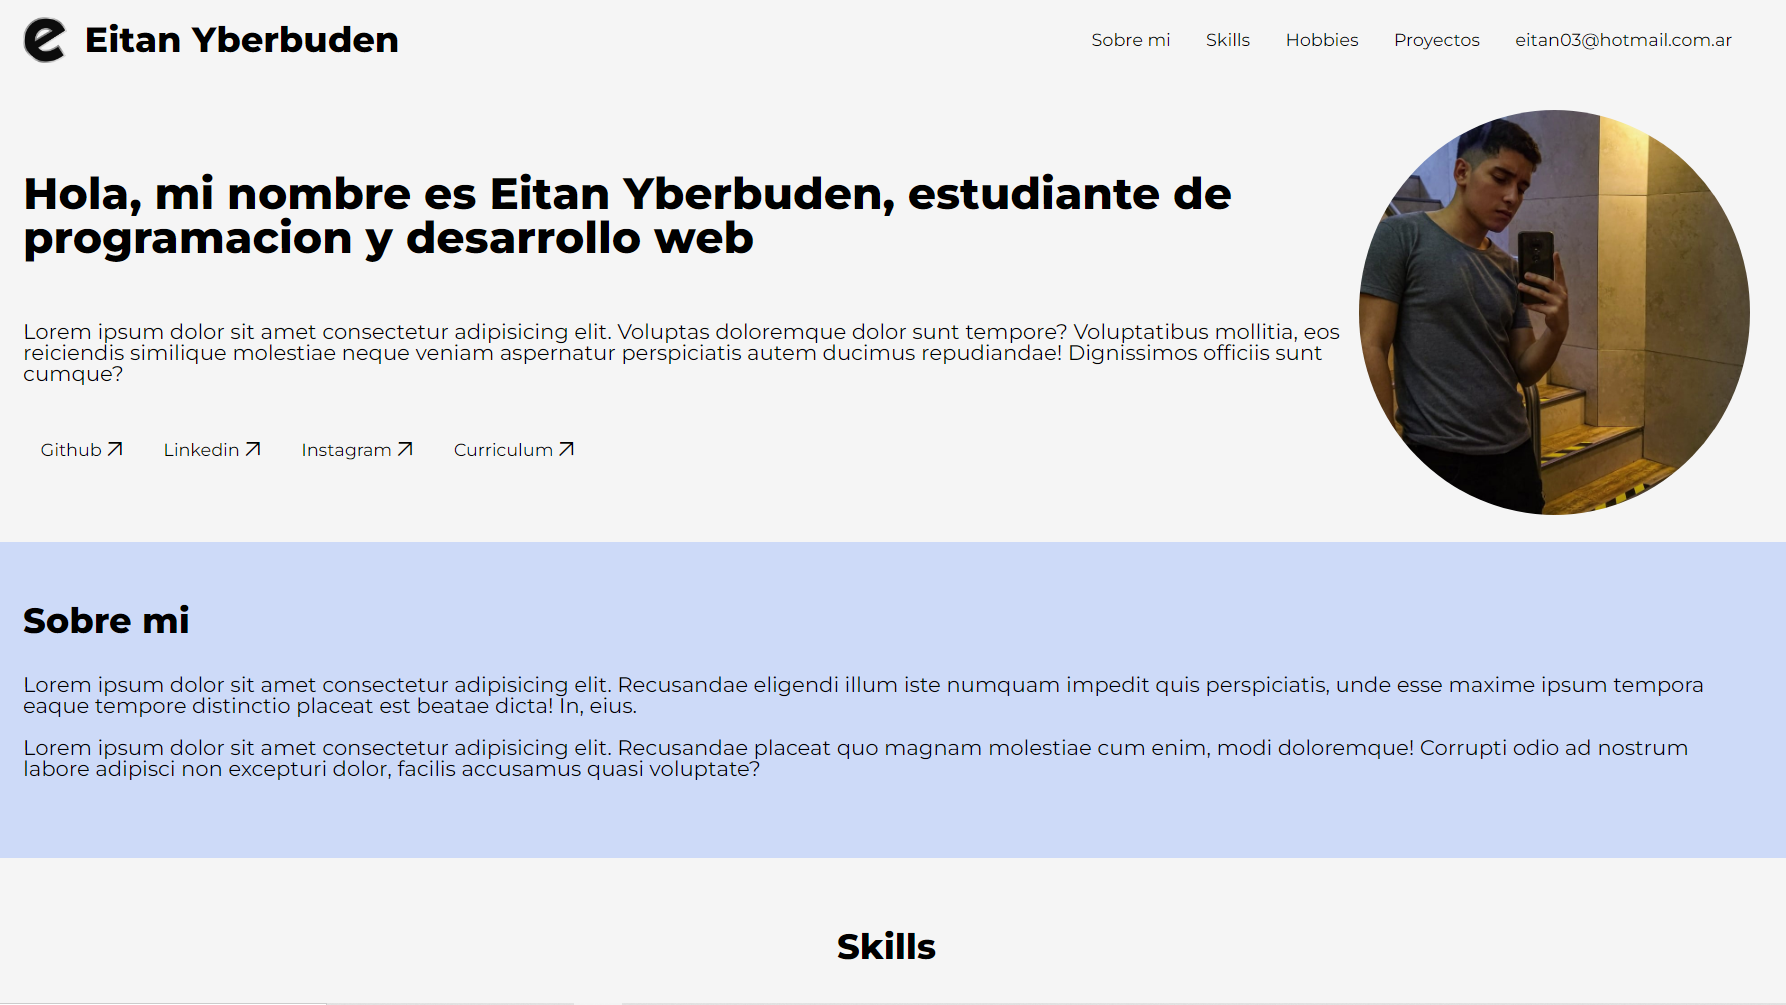
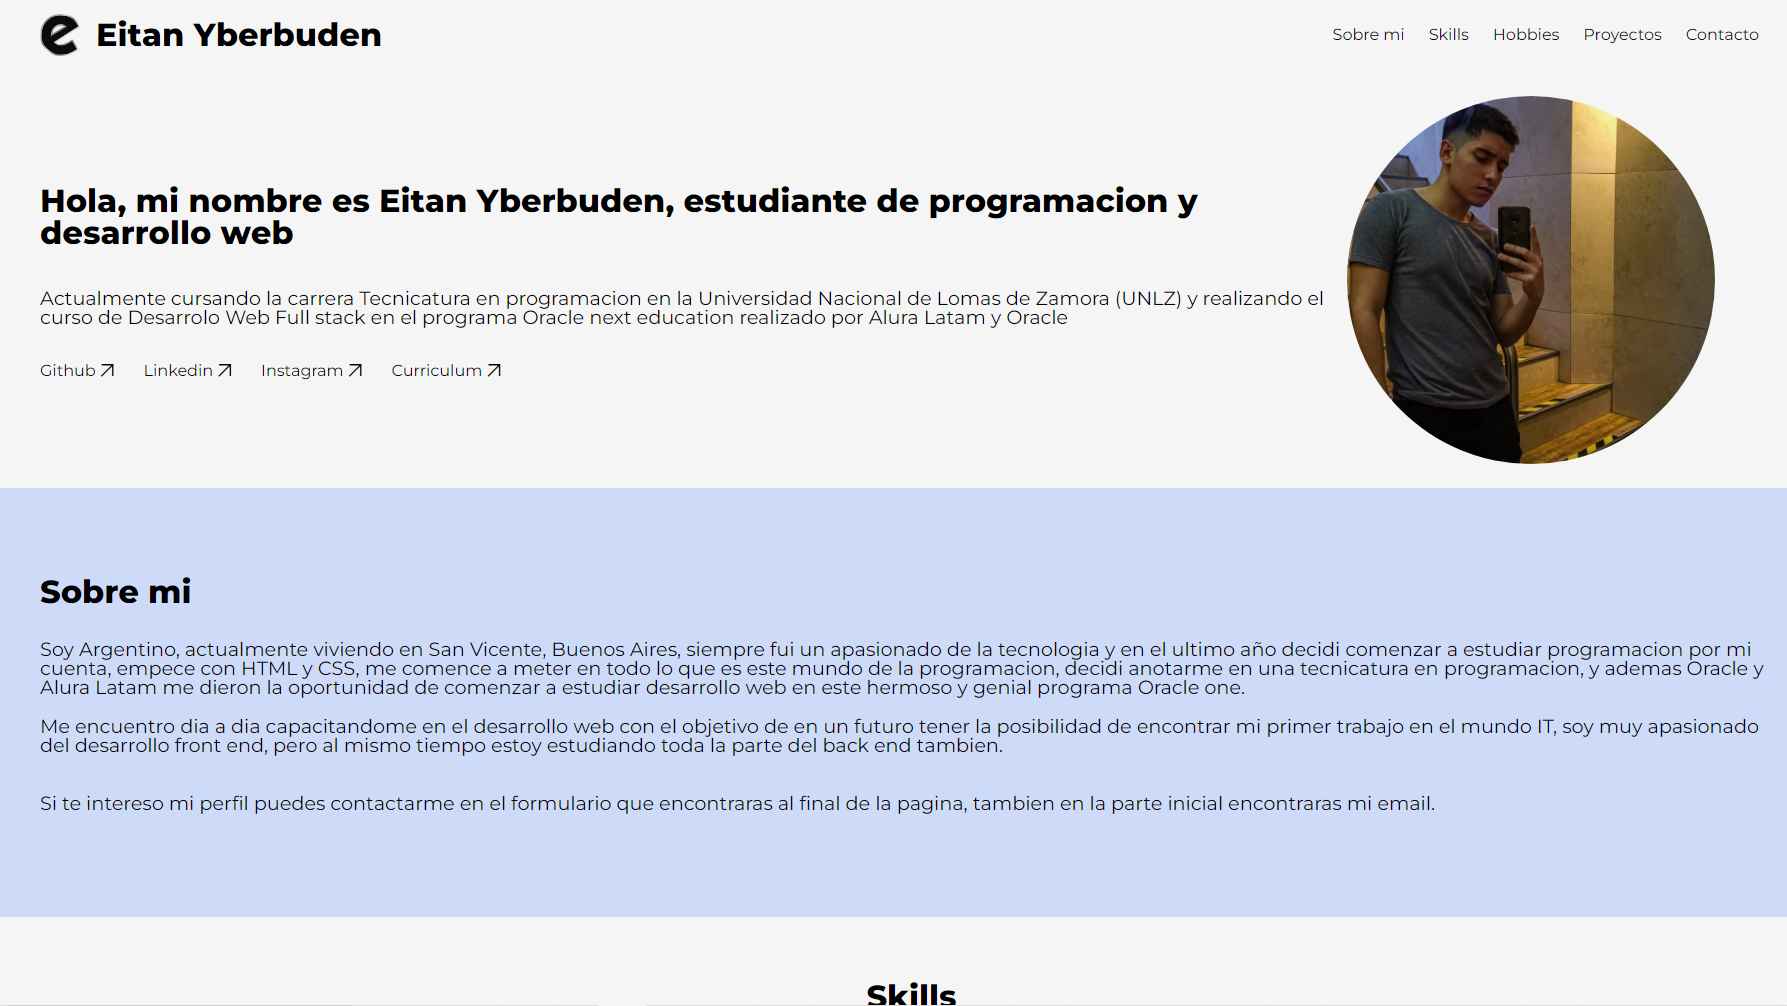
arreglando texto y imagen de proyecto

diff --git a/index.html b/index.html
@@ -68,13 +68,13 @@
                                 </span>
                         </a>
                     </li>
-                    <li class="apartados">
+                   <!-- <li class="apartados">
                         <a class="link" href="">Curriculum
                             <span class="material-symbols-outlined">
                                 arrow_outward
                                 </span>
                         </a>
-                    </li>
+                    </li>-->
                 </ul>
             </div>
             <div class="imagenSobre"><img src="./assets/yo.jpeg" alt="" class="imagenSobre"></div>
@@ -85,9 +85,9 @@
             <p class="parrafo">
             Soy Argentino, actualmente viviendo en San Vicente, Buenos Aires, siempre fui un apasionado de la tecnologia y en el ultimo año decidi comenzar a estudiar programacion por mi cuenta, empece con HTML y CSS, me comence a meter en todo lo que es este mundo de la programacion, decidi anotarme en una tecnicatura en programacion, y ademas Oracle y Alura Latam me dieron la oportunidad de comenzar a estudiar desarrollo web en este hermoso y genial programa Oracle one.
             <br><br>
-            Me encuentro dia a dia capacitandome en el desarrollo web con el objetivo de en un futuro tener la posibilidad de encontrar mi primer trabajo en el mundo IT, soy muy apasionado del desarrollo front end, pero al mismo tiempo estoy estudiando toda la parte del back end tambien.
+            Me encuentro dia a dia capacitandome en el desarrollo web con el objetivo de en un futuro tener la posibilidad de encontrar mi primer trabajo en el mundo IT, soy muy apasionado del desarrollo Frontend, pero al mismo tiempo estoy estudiando toda la parte del Backend tambien.
             <br><br><br>
-            Si te intereso mi perfil puedes contactarme en el formulario que encontraras al final de la pagina, tambien en la parte inicial encontraras mi email.  
+            Si te intereso mi perfil puedes contactarme en el formulario que encontraras al final de la pagina, tambien en la parte inicial en el apartado contacto tendras la opcion de contactarme via mial.  
             </p>
         </section>
         <section class="skills" id="skills">
